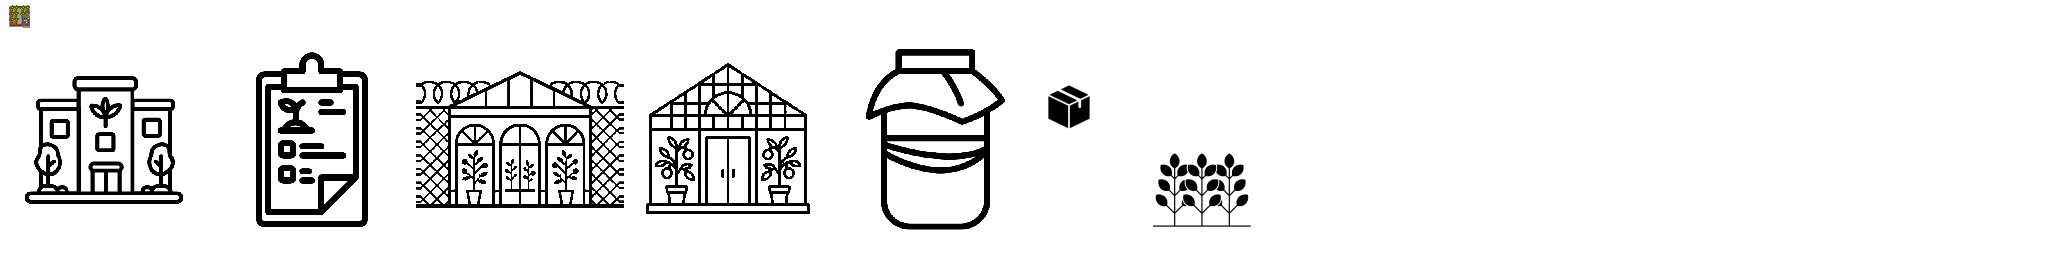
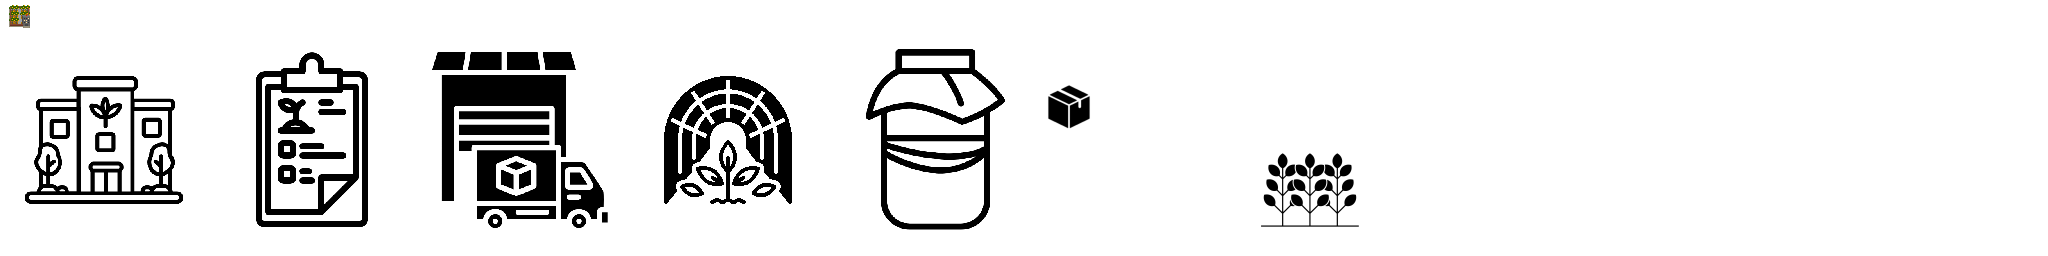
General rebalancing, Addition of a capital unique and Agronomist great person. Some building images added too.

Changed region(s): [[0.1875, 0.1875, 0.4062, 0.875], [0.5625, 0.5938, 0.6875, 0.8438], [0.5625, 0.875, 0.6562, 0.9062]]

diff --git a/Credits.md b/Credits.md
@@ -2,10 +2,14 @@
 
 Plantation improvement icon and Citrarii faction icon taken from base-game.
 
-Proviant building icon taken from DeCiv Redux.
+Proviant building icon and Agronomist unit icon taken from DeCiv Redux.
 
 Building Icons
 ScobWorks [kombucha](https://thenounproject.com/icon/kombucha-4819551/) by rendicon ID
 Fieldlog [clipboard](https://thenounproject.com/icon/clipboard-6765640/) by Rizsign ID
 Agronotech [green uilding](https://thenounproject.com/icon/green-building-7737610/) by Fath Yusuf Iskhaqy ID
+
+FoodWorks \[storage](https://thenounproject.com/icon/storage-7043521/) by Nizar AnT ID
+
+Orangery \[Black solid icon for Greenhouse . . .](https://www.dreamstime.com/greenhouse-icon-greenhouse-orangery-image260558128) by Webtechops Llc
 

diff --git a/README.md b/README.md
@@ -1,0 +1,4 @@
+# Citrarii for Deciv 2
+
+8/24/2025
+Adds the Citrarii Group faction to Deciv 2. Currently WIP and will be rebalanced in future.
